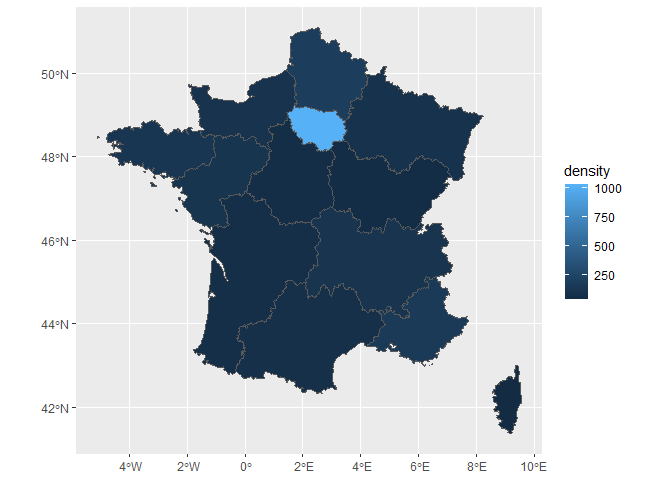
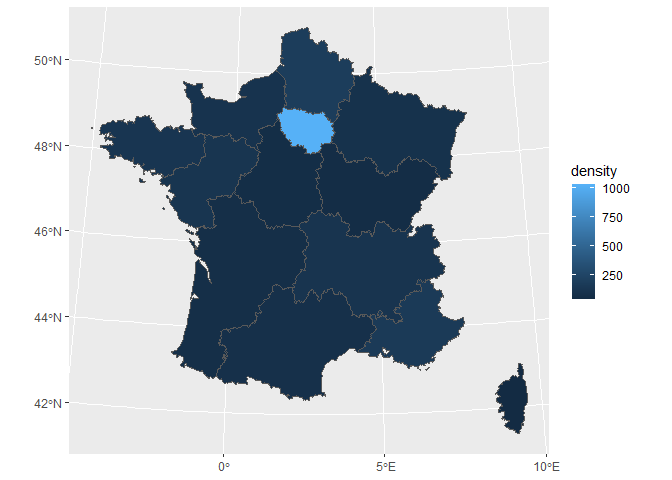
add vignette to main page

diff --git a/README.md b/README.md
@@ -1,5 +1,29 @@
-how-to-use-this-package
+{bertin} package vignette
 ================
+
+The main goal of this package is to easily transform choropleth maps
+into valued points in the way of Jacques Bertin.
+
+![](https://raw.githubusercontent.com/BjnNowak/Lessons/main/fig/R_2/bertin.png)
+
+# 1. Package installation
+
+The package may be downloaded from GitHub. It may also be downloaded
+directly from R with the following command:
+
+``` r
+# Installation directly with R (to use only once):
+# devtools::install_github("BjnNowak/bertin")
+
+# Once installed, you may load it into your R session
+library(bertin)
+
+# Two other packages will be useful to process the data: {tidyverse} and {sf}
+library(tidyverse)
+library(sf)
+```
+
+# 2. First example
 
 Several datasets are already included in the package and may be used
 directly.
@@ -7,7 +31,6 @@ directly.
 We will start with the population density of the French regions.
 
 ``` r
-
 head(france_regions)
 #> Simple feature collection with 6 features and 2 fields
 #> Geometry type: GEOMETRY
@@ -23,10 +46,82 @@ head(france_regions)
 #> 6               Grand Est  96.65120 POLYGON ((4.233164 49.95775...
 ```
 
-``` r
+A choropleth map of the population density can be easily created from
+this file:
 
+``` r
 ggplot(france_regions, aes(fill=density))+
-  geom_sf()
+  geom_sf()+
+  coord_sf(crs='EPSG:2154') # CRS for France
 ```
 
 ![](README_files/figure-gfm/unnamed-chunk-3-1.png)<!-- -->
+
+With {bertin}, it only takes one function (**make_points()**) to convert
+this choropleth map to a point valued map.
+
+``` r
+regions_valued <- make_points(
+  polygon=france_regions, # Input file (sf object)
+  n=45, # Number of points per side
+  square=TRUE # Points shaped as squares (hexagons otherwise)
+)
+
+ggplot(regions_valued,aes(size=density))+
+  # Keep French regions borders as background
+  geom_sf(
+    france_regions,
+    mapping=aes(geometry=geometry),
+    inherit.aes=FALSE
+  )+
+  geom_sf()+
+  coord_sf(crs='EPSG:2154')+
+  scale_size(range=c(1,3))
+```
+
+![](README_files/figure-gfm/unnamed-chunk-4-1.png)<!-- -->
+
+# 3. Second example
+
+In the previous example, the high population density of the Paris region
+overwhelms the differences between the other regions. In addition, the
+spatial scale is coarser than that of the original map by Jacques
+Bertin.
+
+We will now try to reproduce this map with the departmental scale
+dataset, also available in the package.
+
+``` r
+departments_valued<-make_points(
+  polygon=france_departments,
+  n=55,
+  square=TRUE
+  )%>%
+  mutate(density_cl=case_when(
+    density<40~40,
+    density<80~80,
+    density<120~120,
+    density<160~160,
+    TRUE~161
+  ))
+
+ggplot(departments_valued,aes(size=as.factor(density_cl)))+
+  # French departments as background
+  geom_sf(
+    departments_valued,
+    mapping=aes(geometry=geometry),
+    fill="grey95",color="grey60",
+    inherit.aes=FALSE
+  )+
+  geom_sf()+
+  scale_size_manual(
+    values=seq(0.5,3,0.5),
+    labels=c("<40","<80","<120","<160","≥160"))+
+  labs(size="Population density")+
+  theme_void()
+```
+
+![](README_files/figure-gfm/unnamed-chunk-5-1.png)<!-- -->
+
+Besides these examples for France, the make_points() function can be
+applied to any sf polygon object, with a valid crs.
